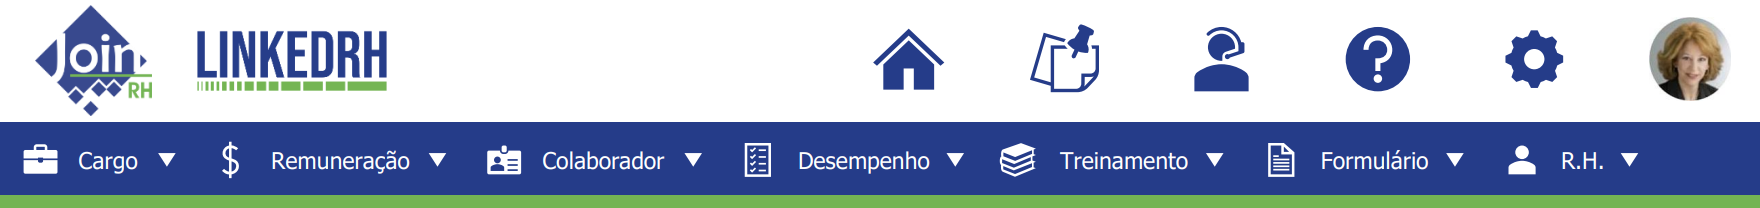
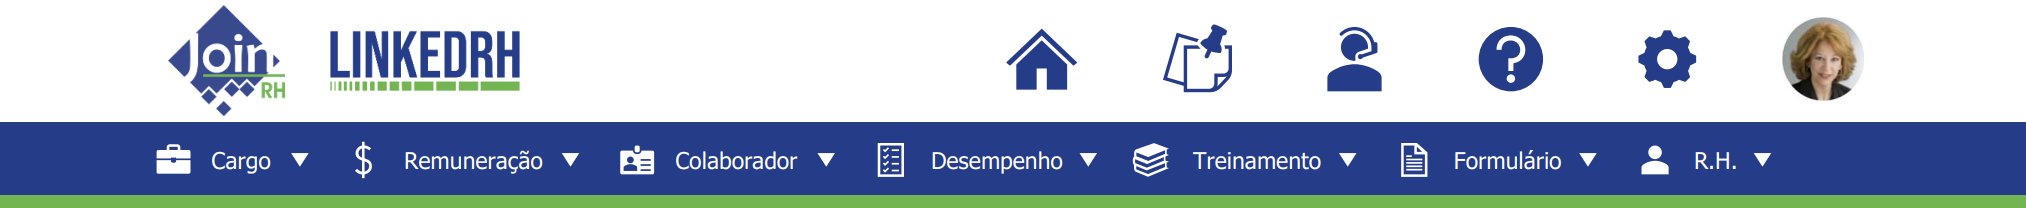
ajuste rota e assets

diff --git a/dic/src/app/app.module.ts b/dic/src/app/app.module.ts
@@ -6,6 +6,7 @@ import { AppComponent } from './app.component';
 import { BrowserAnimationsModule } from '@angular/platform-browser/animations';
 import { MaterialModule } from './core';
 import { ColorPickerModule } from 'ngx-color-picker';
+import { HashLocationStrategy, LocationStrategy } from '@angular/common';
 
 @NgModule({
   declarations: [
@@ -18,7 +19,7 @@ import { ColorPickerModule } from 'ngx-color-picker';
     MaterialModule,
     ColorPickerModule
   ],
-  providers: [],
+  providers: [{provide: LocationStrategy, useClass: HashLocationStrategy}],
   bootstrap: [AppComponent]
 })
 export class AppModule { }

diff --git a/dic/src/app/app.component.scss b/dic/src/app/app.component.scss
@@ -2,6 +2,9 @@
   margin: 20px;
 }
 .menu-container{
-  background: url('./../assets/menu-background.png');
+  //background: url('./assets/menu-background.png');
+  img {
+    width: 100%;
+  }
   text-align: center;
 }

diff --git a/dic/src/app/app.component.html b/dic/src/app/app.component.html
@@ -1,5 +1,5 @@
 <div class="menu-container">
-  <img src="./../assets/menu.PNG" alt="">
+  <img src="./assets/menu.PNG" alt="">
 </div>
 <div class="content-container">
   <router-outlet></router-outlet>
